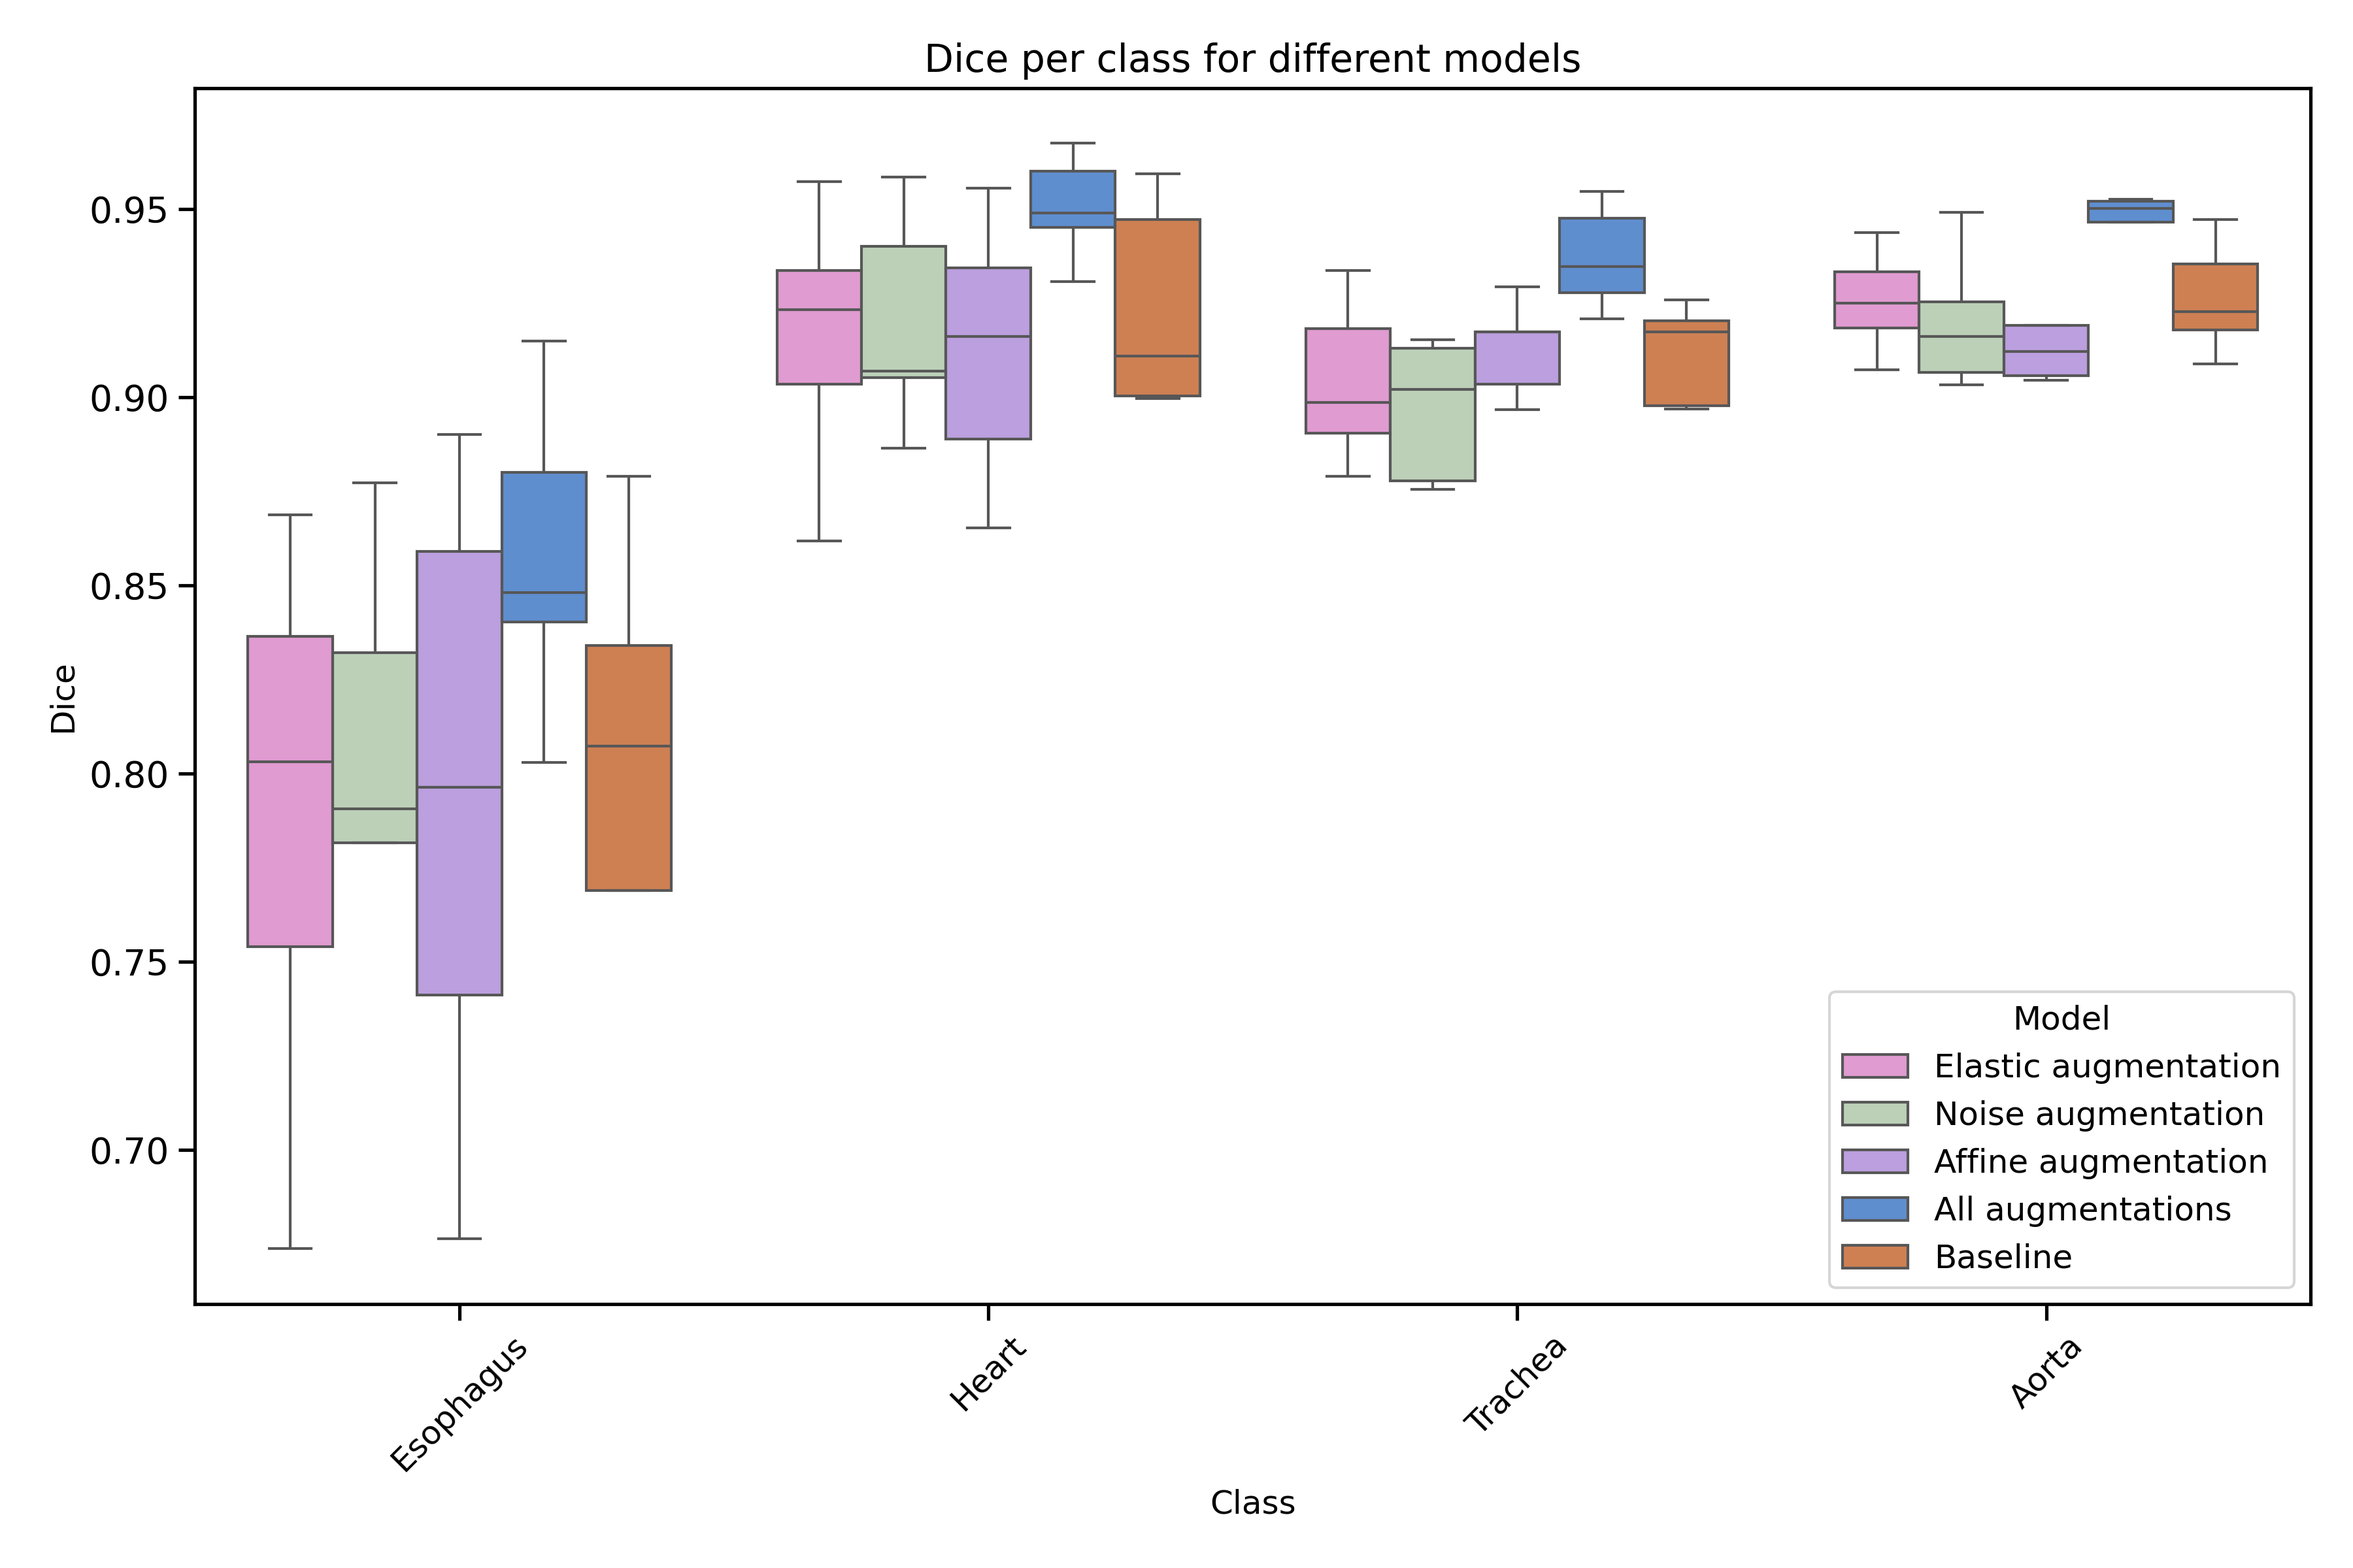
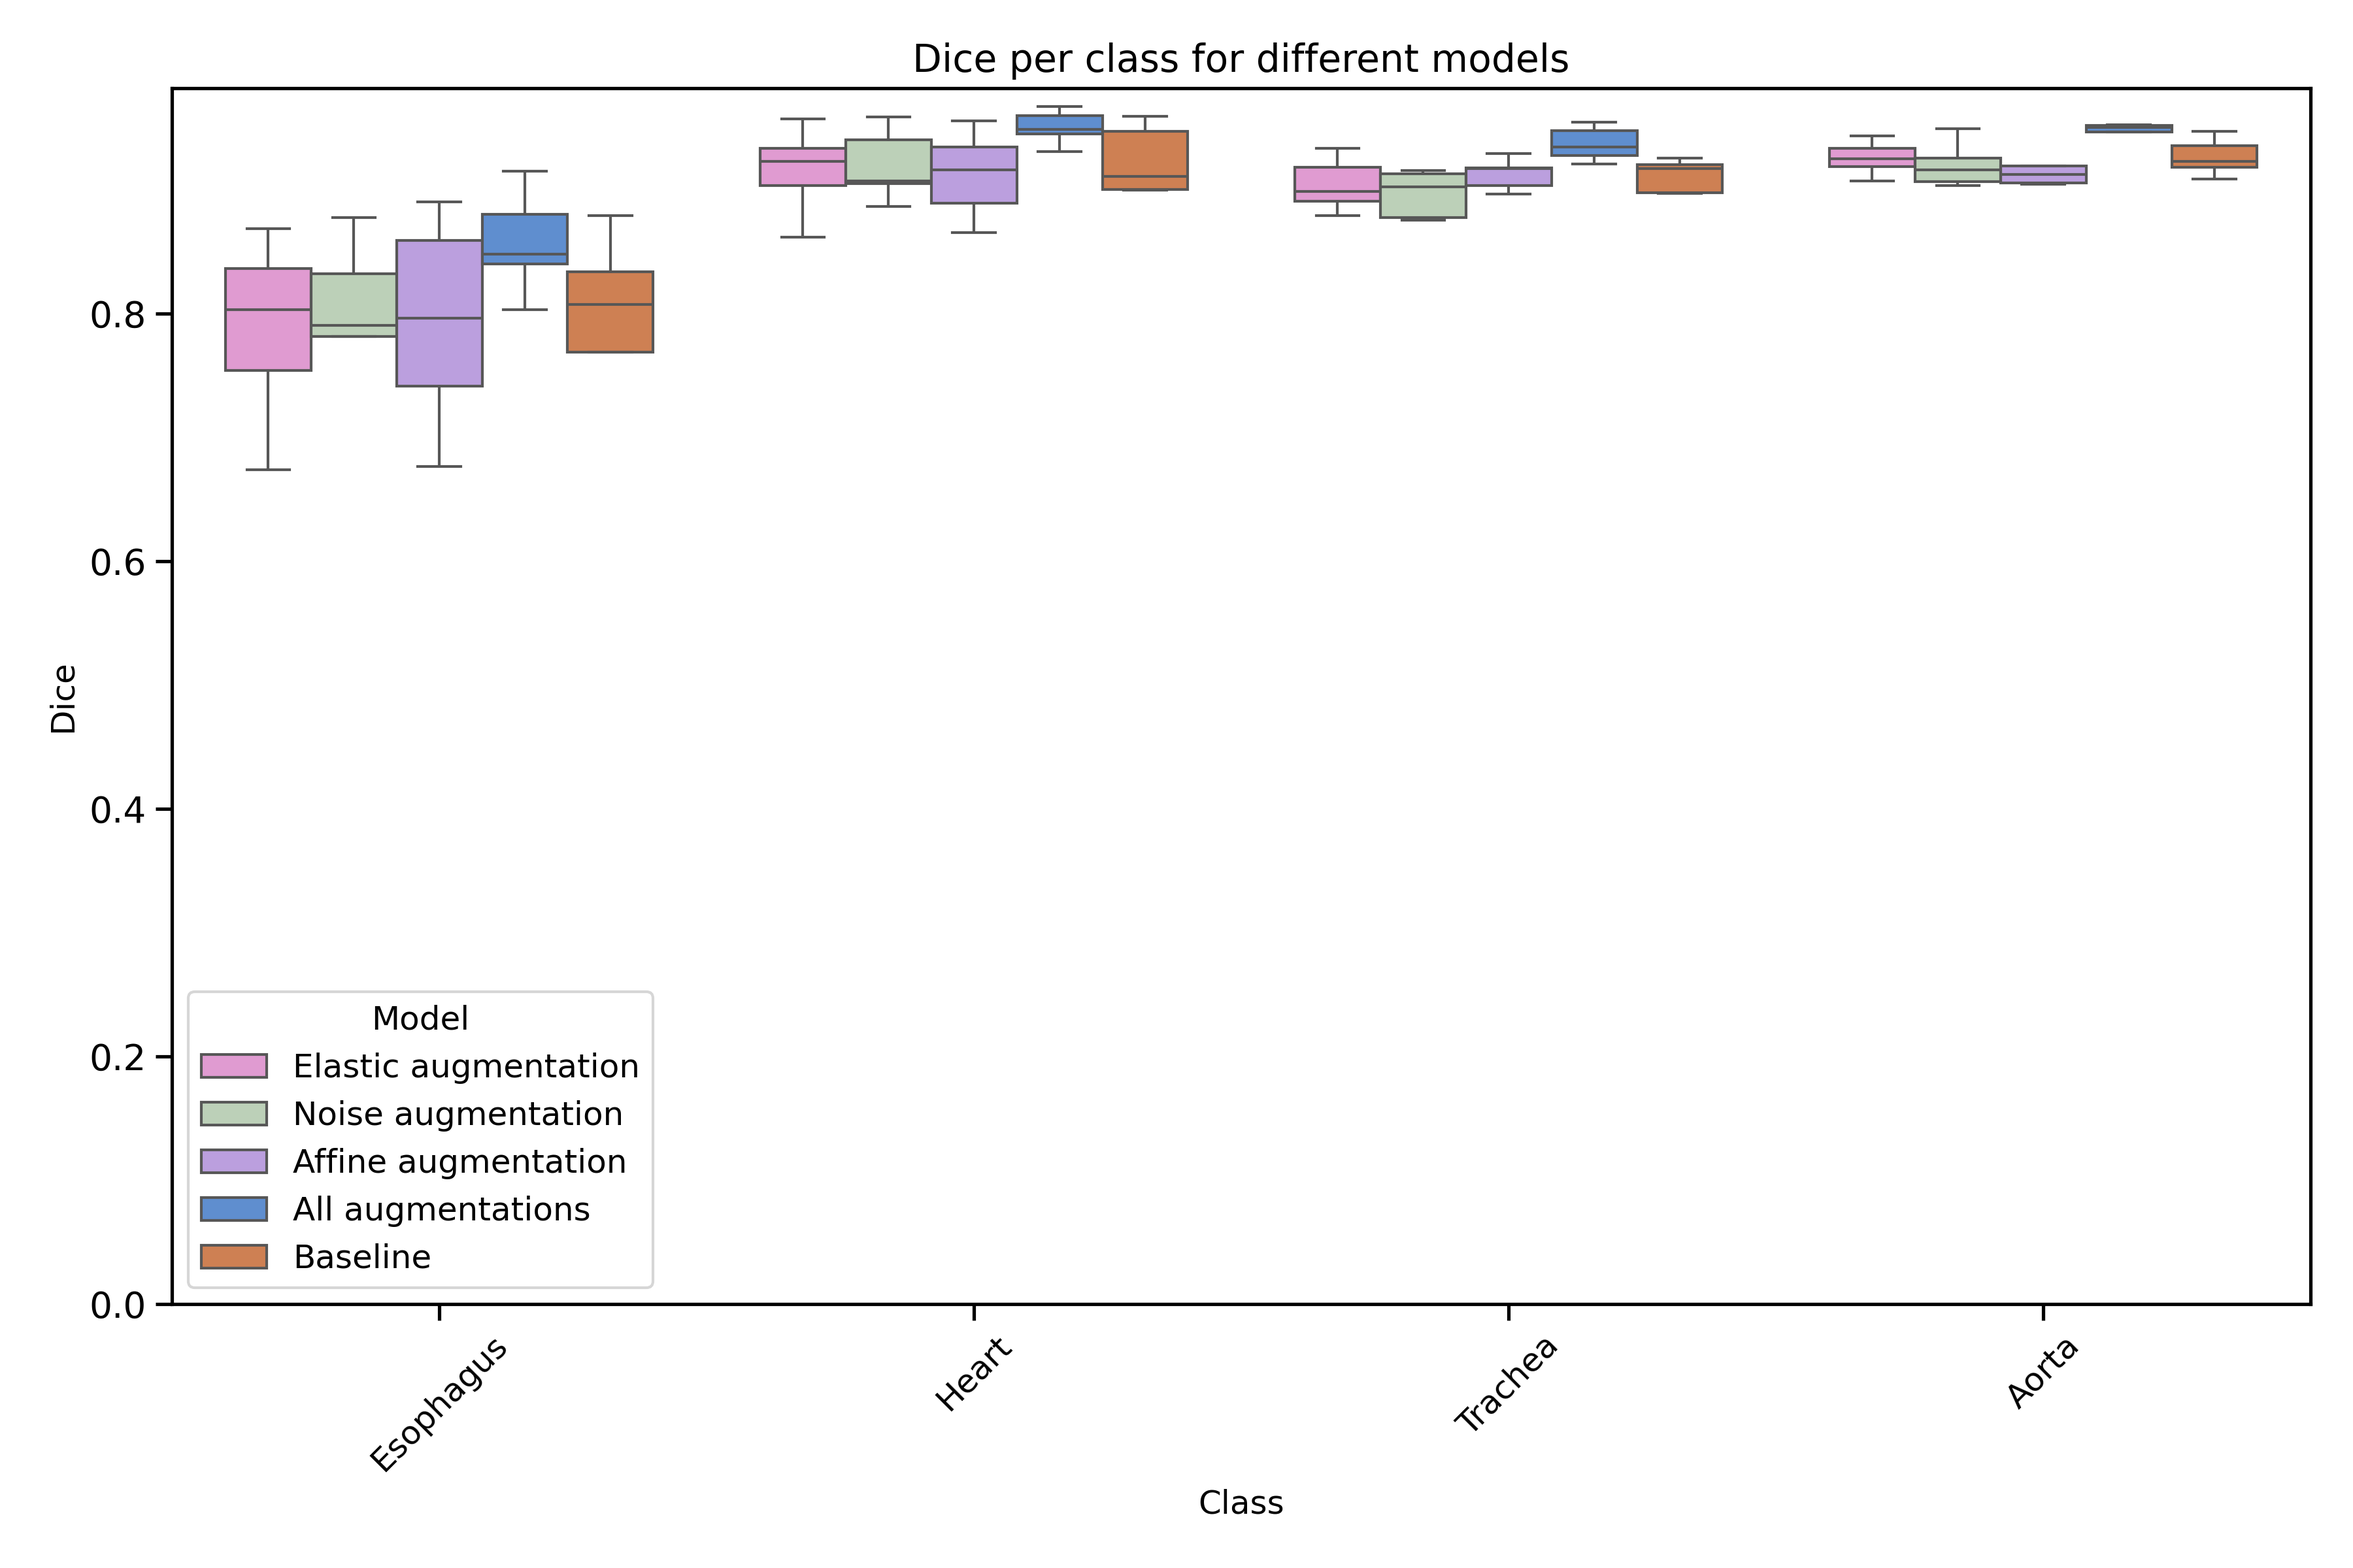
corrected y axis

diff --git a/nnUNet/results/vis_results/eval_visualisation.py b/nnUNet/results/vis_results/eval_visualisation.py
@@ -3,6 +3,7 @@ import pandas as pd
 import numpy as np
 import seaborn as sns
 import matplotlib.pyplot as plt
+import os
 
 # Define class names (assuming indices start from 1)
 class_names = ['Background', 'Esophagus', 'Heart', 'Trachea', 'Aorta']
@@ -118,6 +119,9 @@ for model_name, json_file in json_files.items():
 # Create a DataFrame
 df = pd.DataFrame(all_data)
 
+output_dir = 'nnUNet/results/vis_results'
+os.makedirs(output_dir, exist_ok=True)
+
 # Create boxplots for each metric using custom themes
 for theme in ['light', 'dark']:
     if theme == 'dark':
@@ -139,6 +143,7 @@ for theme in ['light', 'dark']:
         plt.xlabel('Class', fontsize=12)
         plt.xticks(rotation=45, fontsize=12)
         plt.legend(title='Model', fontsize=12, title_fontsize=12)
+        plt.ylim(0, None)
         plt.tight_layout()
-        plt.savefig(f"{metric_name}_per_class_{theme}.png", dpi=300)
+        plt.savefig(os.path.join(output_dir, f"{metric_name}_per_class_{theme}.png"), dpi=300)
         plt.show()
